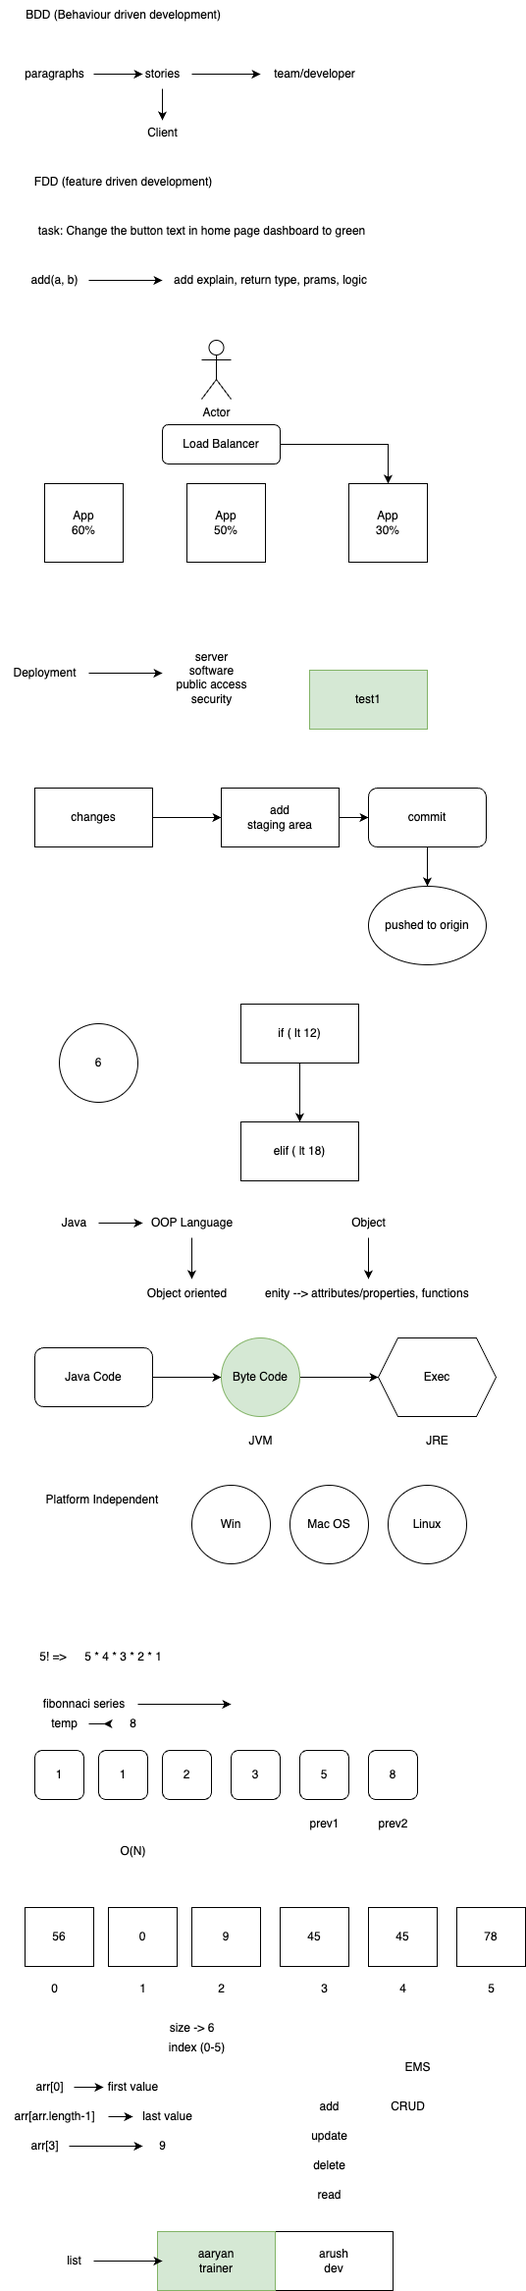
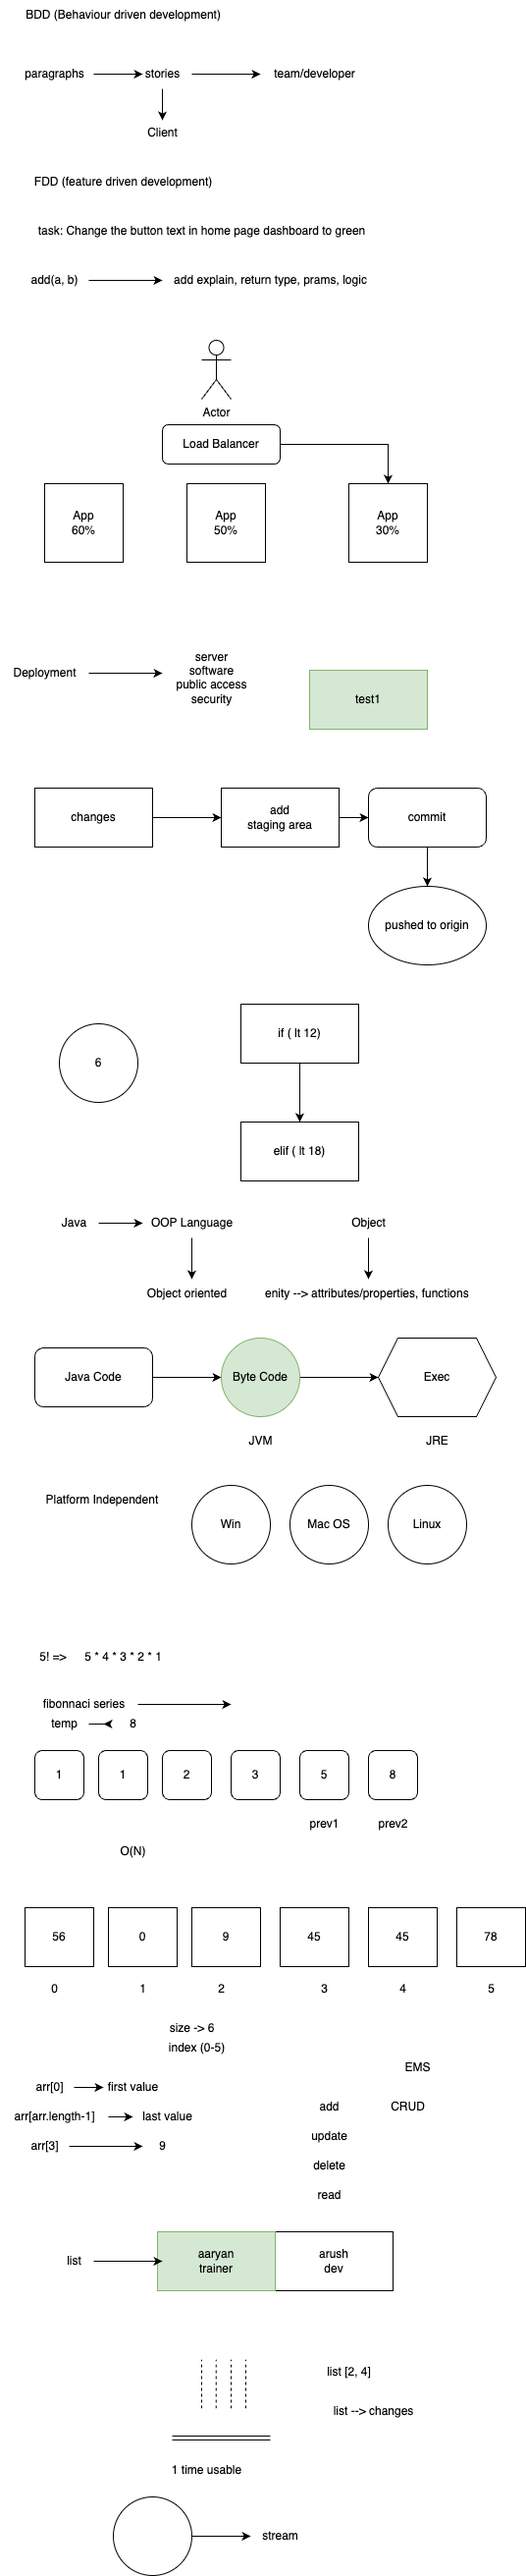
streams and date time api done

diff --git a/java practice/streamex.java b/java practice/streamex.java
@@ -1,0 +1,45 @@
+import java.util.ArrayList;
+import java.util.Collections;
+import java.util.List;
+import java.util.stream.Collectors;
+
+public class streamex {
+    public static void main(String[] args) {
+        List<Integer> list = new ArrayList<>();
+        list.add(34);
+        list.add(2);
+        list.add(3);
+        list.add(-1);
+
+        // TASK1. print all even elements
+        for (int i = 0; i < list.size(); i++) {
+            if(list.get(i) % 2 == 0) {
+                // System.out.println(list.get(i));
+            }
+        }
+
+        //list.stream().filter(e -> e % 2 != 0 && e > 0).forEach(System.out::println);
+
+        int count = (int) list.stream().filter(e -> e % 2 == 0).count();
+        // System.out.println(count);
+        // boolean b = list.stream().anyMatch(e -> e % 2 == 0);
+        // System.out.println(b);
+        
+        // find all the odd numbers and then multiply all of them with 2
+        list.stream().filter(e -> e % 2 != 0)
+            .map(e -> e * 2).forEach(System.out::println);
+
+        int max = list.stream().max((a, b) -> {
+            if(a < b) {
+                return -1;
+            }
+            return 0;
+        }).get();
+
+        // list.stream().sorted().forEach(System.out::println);
+        // Collections.sort(list);
+
+        // System.out.println(max);
+
+    }
+}

diff --git a/java practice/datetime.java b/java practice/datetime.java
@@ -1,0 +1,25 @@
+import java.time.DayOfWeek;
+import java.time.LocalDate;
+import java.time.LocalDateTime;
+import java.time.LocalTime;
+import java.time.ZoneId;
+
+public class datetime {
+    public static void main(String[] args) {
+        System.out.println(LocalDate.now());
+        System.out.println(LocalTime.now());
+        System.out.println(LocalDateTime.now());
+
+        /*System.out.println(LocalDate.now().plusDays(39));
+        System.out.println(LocalDate.now().plusMonths(2).minusDays(34).plusWeeks(4));
+        System.out.println(LocalTime.now().plusHours(45).plusMinutes(34));
+        System.out.println(LocalDateTime.now().plusHours(23).plusMinutes(34));*/
+
+        System.out.println(LocalTime.now(ZoneId.of("Asia/Kolkata")));
+
+        LocalDate.now()
+            .datesUntil(LocalDate.of(2024, 7, 15))
+            .filter(e -> e.getDayOfWeek()!=DayOfWeek.SATURDAY && e.getDayOfWeek()!=DayOfWeek.SUNDAY)
+            .forEach(e -> System.out.println(e.getDayOfMonth()+"-"+e.getDayOfWeek().toString()));
+    }
+}
